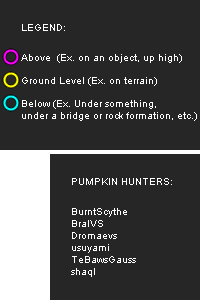
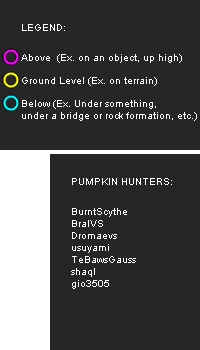
Update pumpkin maps
+10 hossin
+3 indar

diff --git a/README.md b/README.md
@@ -30,6 +30,7 @@ Dromaevs
 usuyami
 TeBawsGauss
 shaql
+gio3505
 ```
 
 Thanks to VanuLabs for the high-res continental maps.
